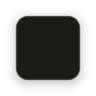
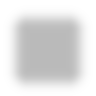
fix: render antialiased rounded corners natively; use bitmaps for shadows only

diff --git a/CHANGELOG.md b/CHANGELOG.md
@@ -7,6 +7,9 @@ and this project adheres to [Semantic Versioning](https://semver.org/).
 ## [Unreleased]
 
 ### Fixed
+- Render the main window and modal sheet corners and hairline borders with native DPI-aware Slint rounded Rectangles, leaving only the soft penumbra in nine-slice images. This avoids jagged bitmap corners at mixed Windows display scaling without switching renderer or changing window behavior.
+
+### Fixed
 - Rebuilt the rounded main-window and sheet shadow assets with a **single soft neutral penumbra**, reduced opacity and a thin, low-contrast edge; removes the dark brown layered halo.
 - Expanded the frameless header's native move area across the full upper band and padding, stopping precisely at the OS resize border; clickable controls and the drag-to-pin gesture retain their own pointer handling.
 
